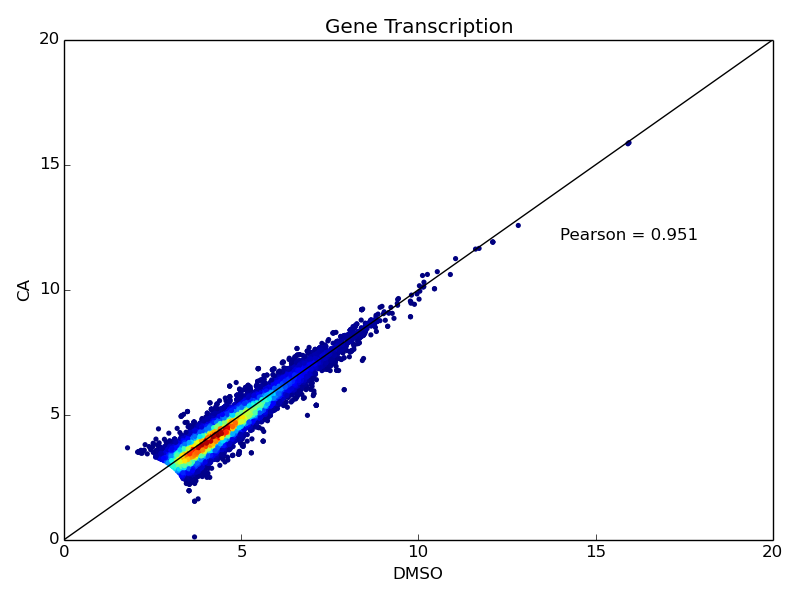
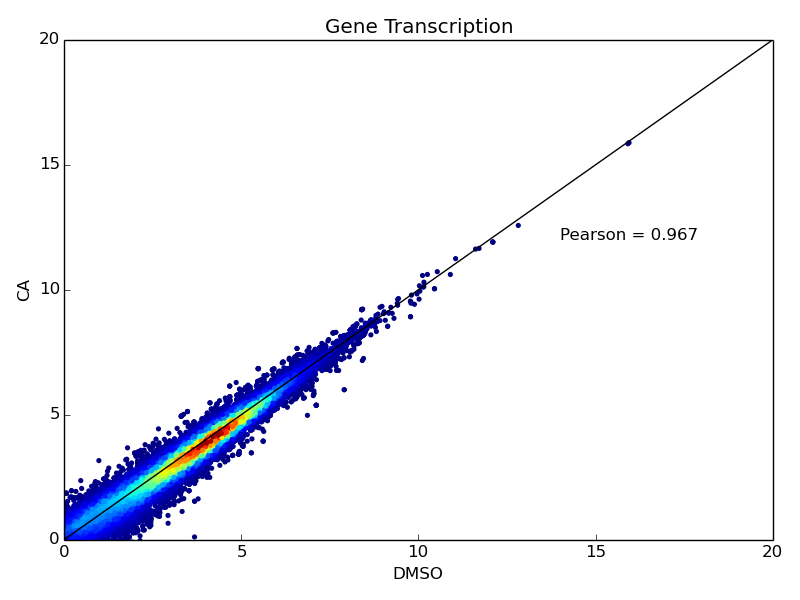
updates

Changed region(s): [[0.0625, 0.75, 0.25, 0.9], [0.8438, 0.36, 0.875, 0.42]]

diff --git a/src/master_writer.py b/src/master_writer.py
@@ -120,7 +120,7 @@ def run(DMSOgenes,DMSOTSS,DMSOEND,CAgenes,CATSS,CAEND,filedir,figuredir):
             TRx.append(DMSOTSS/(DMSOgenes-DMSOTSS))
             ERy.append(CAEND/(CAgenes-CAEND))
             ERx.append(DMSOEND/(DMSOgenes-DMSOEND))
-            expressionlist.append((np.log2(DMSOgenes)+np.log(CAgenes))/2.0)
+            expressionlist.append((np.log2(DMSOgenes)+np.log2(CAgenes))/2.0)
             TR = (CATSS/(CAgenes-CATSS))-(DMSOTSS/(DMSOgenes-DMSOTSS))
             names.append(gene.split(';')[1])
             if TR > cutoff1:
@@ -384,8 +384,8 @@ def run(DMSOgenes,DMSOTSS,DMSOEND,CAgenes,CATSS,CAEND,filedir,figuredir):
     ax.get_xaxis().tick_bottom()
     ax.get_yaxis().tick_left()
     ax.set_title('Gene Transcription')
-    ax.set_xlabel('DMSO')
-    ax.set_ylabel('CA')
+    ax.set_xlabel('Log DMSO (FPKM)')
+    ax.set_ylabel('Log CA (FPKM)')
     ax.set_xlim([0, 20])
     ax.set_ylim([0, 20])
     ax.plot([0,50000.0],[0,50000.0],color='k')
@@ -468,8 +468,8 @@ def run(DMSOgenes,DMSOTSS,DMSOEND,CAgenes,CATSS,CAEND,filedir,figuredir):
     ax.set_xlim([3, 7])
     ax.set_ylim([3, 7])
     ax.set_title('Gene Transcription')
-    ax.set_xlabel('DMSO')
-    ax.set_ylabel('CA')
+    ax.set_xlabel('Log DMSO (FPKM)')
+    ax.set_ylabel('Log CA (FPKM)')
     ax.plot([0,50000.0],[0,50000.0],color='k')
     ax.text(5.5,4, "Pearson = " + str(pearsons)[0:5])
     plt.savefig(figuredir + '/Transcription_UPGenes.png')
